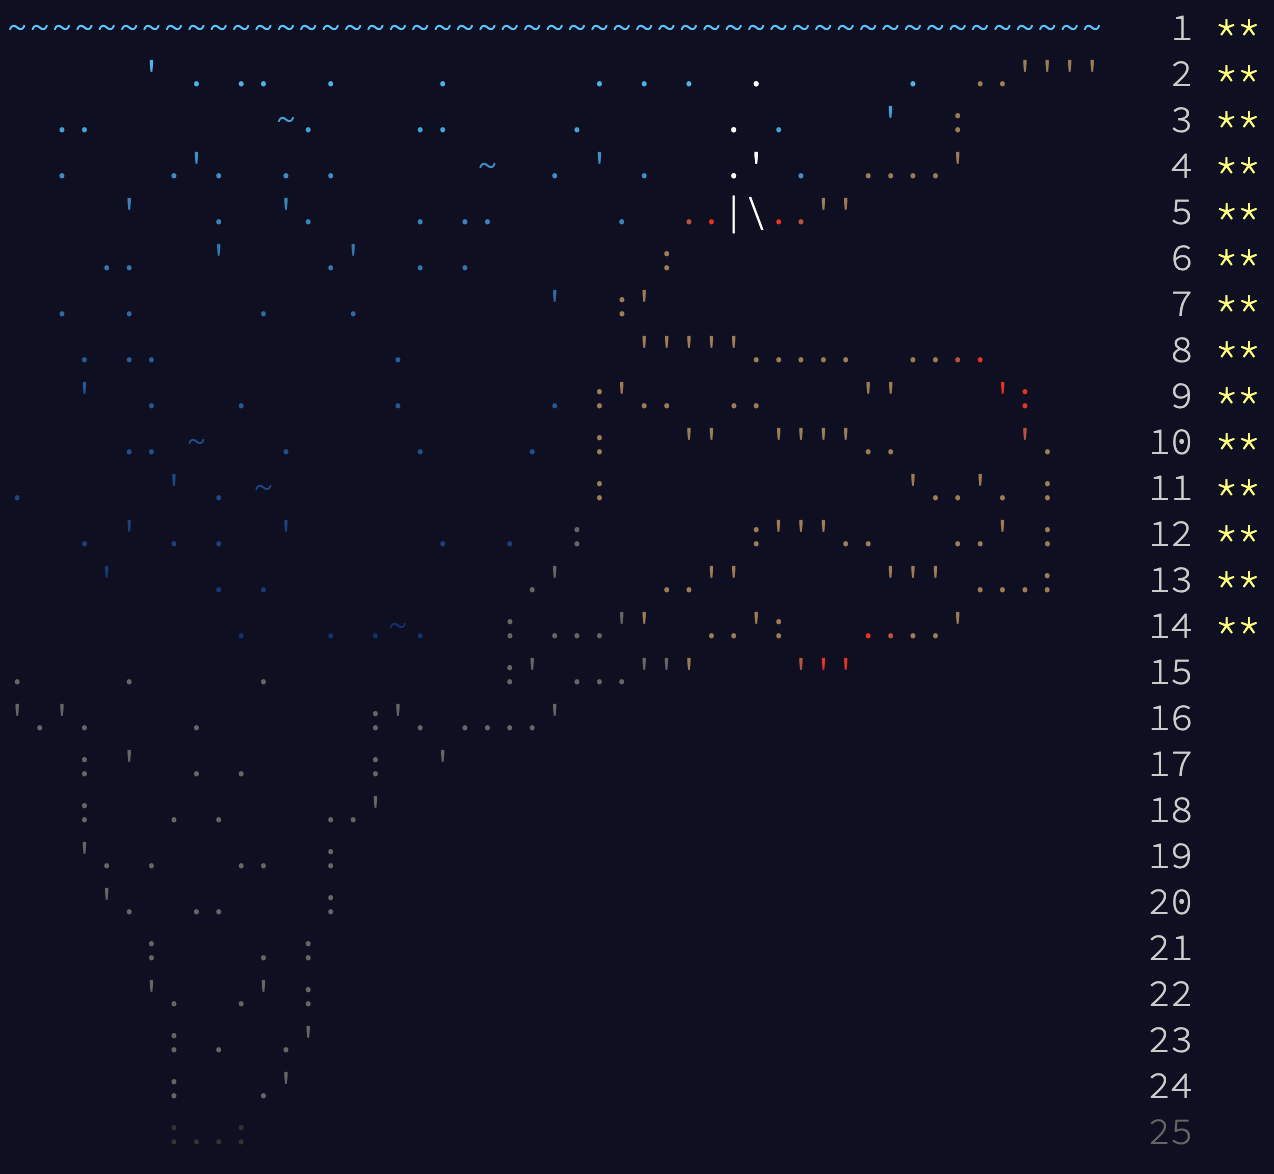
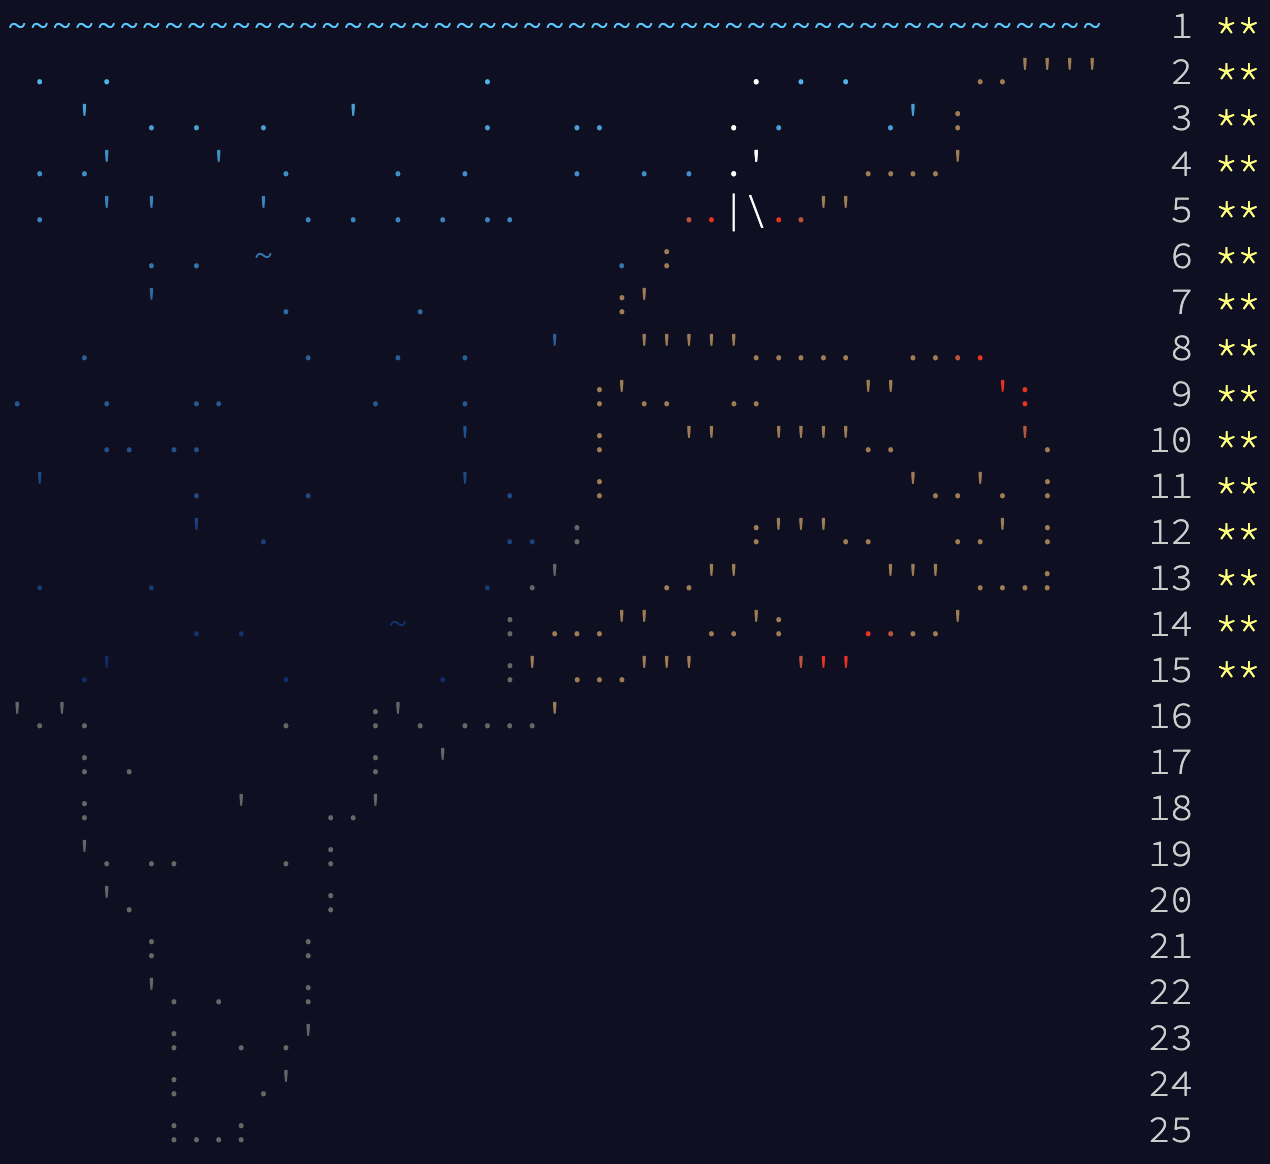
Solve day 15 puzzle part 2

diff --git a/day-15/main.go b/day-15/main.go
@@ -11,10 +11,9 @@ import (
 const inputFilePath = "input.txt"
 
 type MinimumDistanceTracker struct {
-	minimumDistanceMap    map[int]map[int]int
-	processedNodesMap     map[int]map[int]bool
-	nodeProcessingQueue   [][]int
-	addedForProcessingMap map[int]map[int]bool
+	minimumDistanceMap  map[int]map[int]int
+	processedNodesMap   map[int]map[int]bool
+	nodeProcessingQueue [][]int
 }
 
 func main() {
@@ -24,17 +23,69 @@ func main() {
 		log.Fatal(err)
 	}
 
-	answer2 := 0
-
 	source := []int{0, 0}
+
 	destination := []int{len(caveGrid) - 1, len(caveGrid[0]) - 1}
-
 	minimumDistance := calculateMinimumDistance(caveGrid, source, destination)
-
 	answer1 := minimumDistance
+
+	fullMap := getFullMap(caveGrid)
+	destinationFullMap := []int{len(fullMap) - 1, len(fullMap[0]) - 1}
+	minimumDistanceFullMap := calculateMinimumDistance(fullMap, source, destinationFullMap)
+	answer2 := minimumDistanceFullMap
 
 	log.Printf("Answer #1 :: %d", answer1)
 	log.Printf("Answer #2 :: %d", answer2)
+}
+
+func getFullMap(caveGrid [][]int) [][]int {
+	fullMap := make([][]int, len(caveGrid))
+
+	// repeat tiles for first row of 5X5
+	for repeatIndex := 0; repeatIndex < 5; repeatIndex++ {
+		for rowIndex := 0; rowIndex < len(caveGrid); rowIndex++ {
+			if repeatIndex == 0 {
+				fullMap[rowIndex] = make([]int, len(caveGrid[0])*5)
+			}
+
+			fullMapBaseColumnIndex := repeatIndex * len(caveGrid[0])
+
+			for columnIndex := 0; columnIndex < len(caveGrid[0]); columnIndex++ {
+				if repeatIndex > 0 {
+					newColumnIndex := fullMapBaseColumnIndex + columnIndex
+					prevColumnValueToIncrease := fullMap[rowIndex][newColumnIndex-len(caveGrid[0])]
+
+					if prevColumnValueToIncrease == 9 {
+						fullMap[rowIndex][newColumnIndex] = 1
+					} else {
+						fullMap[rowIndex][newColumnIndex] = prevColumnValueToIncrease + 1
+					}
+				} else {
+					fullMap[rowIndex][columnIndex] = caveGrid[rowIndex][columnIndex]
+				}
+			}
+		}
+	}
+
+	// repeat for remaining rows of full map
+	for repeatIndex := len(caveGrid); repeatIndex < len(caveGrid)*5; repeatIndex++ {
+		fullMap = append(fullMap, make([]int, len(fullMap[0])))
+
+		newRowIndex := len(fullMap) - 1
+		prevRowIndex := newRowIndex - len(caveGrid)
+
+		for columnIndex := 0; columnIndex < len(fullMap[0]); columnIndex++ {
+			prevColumnValueToIncrease := fullMap[prevRowIndex][columnIndex]
+
+			if prevColumnValueToIncrease == 9 {
+				fullMap[newRowIndex][columnIndex] = 1
+			} else {
+				fullMap[newRowIndex][columnIndex] = prevColumnValueToIncrease + 1
+			}
+		}
+	}
+
+	return fullMap
 }
 
 func calculateMinimumDistance(caveGrid [][]int, source []int, destination []int) int {
@@ -47,6 +98,14 @@ func calculateMinimumDistance(caveGrid [][]int, source []int, destination []int)
 	minimumDistanceTracker.addNodeToProcessNext(source[0], source[1])
 
 	for node, ok := minimumDistanceTracker.getNextNodeToProcess(); ok; node, ok = minimumDistanceTracker.getNextNodeToProcess() {
+		if minimumDistanceTracker.isNodeProcessed(node[0], node[1]) {
+			continue
+		}
+
+		if node[0] == destination[0] && node[1] == destination[1] {
+			break
+		}
+
 		minimumDistanceTracker.markNodeProcessed(node[0], node[1])
 		baseMinDistanceTrackedOfNode, _ := minimumDistanceTracker.getMinimumDistanceTracked(node[0], node[1])
 
@@ -144,24 +203,43 @@ func (tracker *MinimumDistanceTracker) isNodeProcessed(rowIndex int, columnIndex
 }
 
 func (tracker *MinimumDistanceTracker) addNodeToProcessNext(rowIndex int, columnIndex int) {
-	if _, ok := tracker.processedNodesMap[rowIndex]; ok {
-		if _, ok := tracker.processedNodesMap[rowIndex][columnIndex]; ok {
-			return
-		}
-	}
-
 	tracker.nodeProcessingQueue = append(tracker.nodeProcessingQueue, []int{rowIndex, columnIndex})
 }
 
+// TODO speed can be improved here using min heap
 func (tracker *MinimumDistanceTracker) getNextNodeToProcess() ([]int, bool) {
 	if len(tracker.nodeProcessingQueue) == 0 {
 		return []int{}, false
 	}
 
-	nextNode := (tracker.nodeProcessingQueue)[0]
-	tracker.nodeProcessingQueue = (tracker.nodeProcessingQueue)[1:]
+	minNodeIndex := -1
+	var minNode []int
 
-	return nextNode, true
+	for index, nodeAvailable := range tracker.nodeProcessingQueue {
+		if minNodeIndex == -1 {
+			minNode = nodeAvailable
+			minNodeIndex = index
+		} else {
+			if tracker.minimumDistanceMap[minNode[0]][minNode[1]] > tracker.minimumDistanceMap[nodeAvailable[0]][nodeAvailable[1]] {
+				minNodeIndex = index
+				minNode = nodeAvailable
+			}
+		}
+	}
+
+	newProcessingQueue := make([][]int, 0)
+
+	if minNodeIndex > 0 {
+		newProcessingQueue = append(newProcessingQueue, tracker.nodeProcessingQueue[0:minNodeIndex]...)
+	}
+
+	if minNodeIndex < len(tracker.nodeProcessingQueue)-1 {
+		newProcessingQueue = append(newProcessingQueue, tracker.nodeProcessingQueue[minNodeIndex+1:]...)
+	}
+
+	tracker.nodeProcessingQueue = newProcessingQueue
+
+	return minNode, true
 }
 
 func isDestination(caveGrid [][]int, trackLocation []int) bool {
